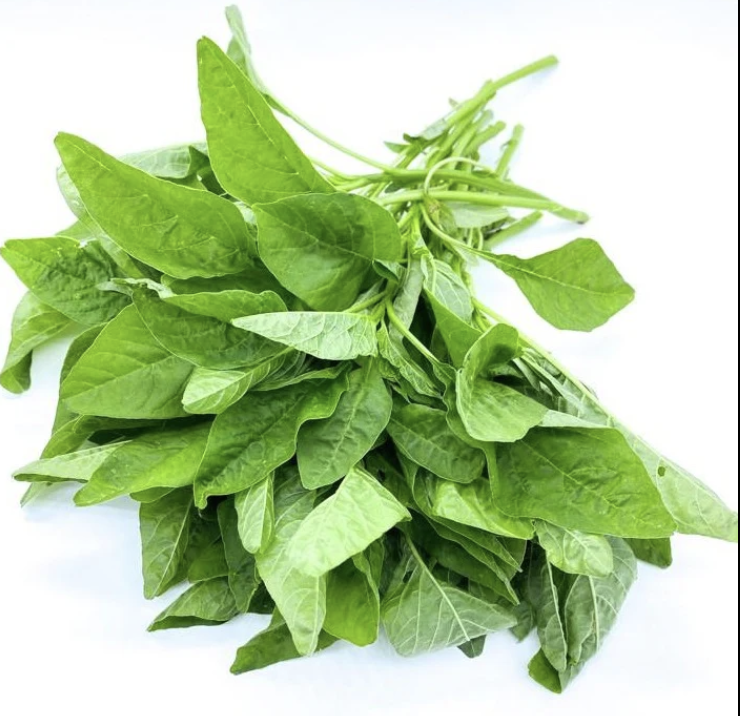
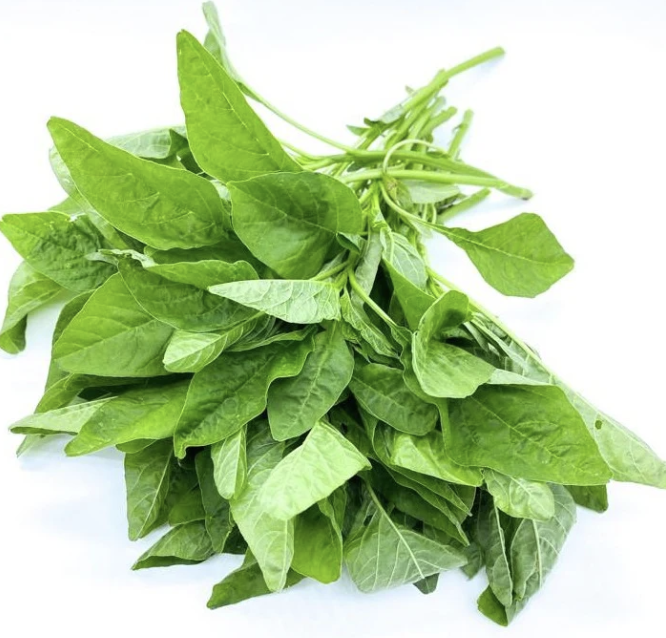
change image format

diff --git a/index.html b/index.html
@@ -6,21 +6,21 @@
 <title>买菜清单 / စာရင်း</title>
 <style>
 *{box-sizing:border-box;margin:0;padding:0}
-body{font-family:-apple-system,BlinkMacSystemFont,"PingFang SC","Noto Sans Myanmar",sans-serif;background:#f0f4f0;min-height:100vh}
-header{background:#2d6a4f;color:white;padding:14px 20px;position:sticky;top:0;z-index:100;display:flex;align-items:center;justify-content:space-between;box-shadow:0 2px 8px rgba(0,0,0,0.2)}
+html,body{height:100%;margin:0}body{font-family:-apple-system,BlinkMacSystemFont,"PingFang SC","Noto Sans Myanmar",sans-serif;background:#f0f4f0;display:flex;flex-direction:column}
+header{background:#2d6a4f;color:white;padding:14px 20px;position:sticky;top:0;z-index:100;flex-shrink:0;display:flex;align-items:center;justify-content:space-between;box-shadow:0 2px 8px rgba(0,0,0,0.2)}
 .htitle{display:flex;flex-direction:column;gap:2px}
 .htitle-zh{font-size:19px;font-weight:700}
 .htitle-my{font-size:14px;opacity:0.8;font-family:"Noto Sans Myanmar","Pyidaungsu",sans-serif}
 .hcount{text-align:right}
 .hcount-zh{font-size:15px;background:rgba(255,255,255,0.22);padding:4px 10px;border-radius:12px;display:block}
 .hcount-my{font-size:12px;opacity:0.75;margin-top:3px;display:block;font-family:"Noto Sans Myanmar","Pyidaungsu",sans-serif;text-align:center}
-.toolbar{display:flex;gap:8px;padding:10px 16px;background:white;border-bottom:1px solid #dde8dd}
+
 .btn{padding:0;border:none;border-radius:10px;cursor:pointer;font-family:inherit;display:flex;flex-direction:column;align-items:center;justify-content:center;gap:1px}
 .btn-zh{font-size:15px;font-weight:600}
 .btn-my{font-size:12px;font-family:"Noto Sans Myanmar","Pyidaungsu",sans-serif;opacity:0.8}
 .btn-copy{background:#2d6a4f;color:white;flex:1;padding:10px 12px}
-.btn-reset{background:#f0f0e8;color:#555;padding:9px 14px}
-.btn-all{background:#e4f0ea;color:#2d6a4f;padding:9px 14px}
+
+
 .grid{display:grid;grid-template-columns:repeat(4,1fr);gap:12px;padding:14px 16px;max-width:900px;margin:0 auto}
 @media(max-width:600px){.grid{grid-template-columns:repeat(2,1fr);gap:10px;padding:10px 12px}}
 .card{background:white;border-radius:14px;overflow:hidden;cursor:pointer;border:2.5px solid transparent;transition:border-color .15s,transform .1s;box-shadow:0 1px 4px rgba(0,0,0,0.07);position:relative;user-select:none;-webkit-tap-highlight-color:transparent}
@@ -42,7 +42,37 @@ header{background:#2d6a4f;color:white;padding:14px 20px;position:sticky;top:0;z-
 .otext{font-size:15px;color:#333;line-height:1.9;white-space:pre-wrap;min-height:36px}.otext-my{font-family:"Noto Sans Myanmar","Pyidaungsu",sans-serif;font-size:12px}
 .empty{color:#ccc;font-style:italic;font-size:13px}
 
-.cat-section{max-width:900px;margin:0 auto;padding:0 16px}
+.cat-nav{position:sticky;top:0;z-index:90;flex-shrink:0;background:white;border-bottom:2px solid #e0ede0;overflow-x:auto;white-space:nowrap;scrollbar-width:none;-webkit-overflow-scrolling:touch}
+.cat-nav::-webkit-scrollbar{display:none}
+.cat-nav-inner{display:inline-flex;gap:4px;padding:0 8px}
+.cat-nav-btn{padding:10px 16px;border:none;background:none;cursor:pointer;font-family:inherit;border-bottom:3px solid transparent;white-space:nowrap;transition:color 0.15s,border-color 0.15s;display:flex;flex-direction:column;align-items:center;gap:2px}
+.cat-nav-btn:hover .cnav-zh{color:#2d6a4f}.cat-nav-btn-zh{font-size:14px;font-weight:700;color:#444}.cat-nav-btn-my{font-size:11px;color:#888;font-family:"Noto Sans Myanmar","Pyidaungsu",sans-serif}.cat-nav-btn:hover{border-bottom-color:#2d6a4f}
+.cat-nav-btn.active .cat-nav-btn-zh{color:#2d6a4f}.cat-nav-btn.active .cat-nav-btn-my{color:#2d6a4f}.cat-nav-btn.active{border-bottom-color:#2d6a4f}
+.main-layout{display:flex;align-items:flex-start;gap:0}
+.left-panel{flex:1;min-width:0;padding-bottom:80px}
+.right-panel{width:320px;flex-shrink:0;position:sticky;top:44px;height:calc(100vh - 44px - 72px);display:flex;flex-direction:column;border-left:1px solid #dde8dd;background:white}
+@media(max-width:768px){
+.main-layout{flex-direction:column}.right-panel{width:100%;position:static;height:auto;border-left:none;border-top:2px solid #dde8dd}}
+.cart-header{padding:14px 16px 10px;border-bottom:1px solid #eee}
+.cart-title-zh{font-size:16px;font-weight:700;color:#1a1a1a}
+.cart-title-my{font-size:12px;color:#5a8a6a;font-family:"Noto Sans Myanmar","Pyidaungsu",sans-serif;display:block;margin-top:2px}
+.cart-body{flex:1;overflow-y:auto;padding:10px 0}
+.cart-empty{color:#ccc;font-style:italic;font-size:14px;text-align:center;padding:30px 16px}
+.cart-cat-header{padding:6px 14px;background:#f0f7f3;border-top:2px solid #2d6a4f;border-bottom:1px solid #d0ead8;display:flex;align-items:center;gap:6px}
+.cart-cat-title{font-size:13px;font-weight:700;color:#2d6a4f}
+.cart-cat-count{font-size:11px;color:#5a8a6a;background:#d0ead8;padding:1px 7px;border-radius:8px}
+.cart-item{display:flex;align-items:center;padding:10px 14px;border-bottom:1px solid #eef5ee;gap:4px}
+.cart-item-num{font-size:13px;font-weight:700;color:#888;min-width:18px;text-align:right}
+.cart-item-info{flex:1;min-width:0;margin-right:4px}
+.cart-item-zh{font-size:15px;font-weight:700;color:#1a1a1a;white-space:nowrap;overflow:hidden;text-overflow:ellipsis}
+.cart-item-my{font-size:12px;color:#5a8a6a;font-family:"Noto Sans Myanmar","Pyidaungsu",sans-serif;white-space:nowrap;overflow:hidden;text-overflow:ellipsis;margin-top:2px}
+.cart-item-qty{font-size:12px;color:#aaa;font-weight:400}
+.cart-item-xqty{display:inline-block;background:#2d6a4f;color:white;font-size:13px;font-weight:700;padding:2px 8px;border-radius:10px;margin-left:6px}
+.cart-item-badge{display:flex;align-items:center;justify-content:center;background:#f0faf4;border:1.5px solid #2d6a4f;border-radius:8px;padding:3px 8px;min-width:32px;flex-shrink:0}
+.cart-item-badge-qty{font-size:18px;font-weight:800;color:#2d6a4f;line-height:1}
+
+.cart-footer{padding:10px 14px;border-top:1px solid #eee}
+.cat-section{max-width:100%;margin:0;padding:0 12px}
 .cat-header{display:flex;align-items:center;gap:10px;padding:14px 4px 8px;cursor:pointer;user-select:none}
 .cat-title-zh{font-size:17px;font-weight:700;color:#1a1a1a}
 .cat-title-my{font-size:13px;color:#5a8a6a;font-family:"Noto Sans Myanmar","Pyidaungsu",sans-serif}
@@ -56,7 +86,6 @@ header{background:#2d6a4f;color:white;padding:14px 20px;position:sticky;top:0;z-
 .cat-grid.hidden{display:none}
 @media(max-width:600px){.cat-grid{grid-template-columns:repeat(2,1fr)}}
 
-.copy-footer{position:sticky;bottom:0;z-index:90;background:white;padding:10px 16px;border-top:1px solid #dde8dd;max-width:100%}
 .btn-copy-footer{width:100%;background:#2d6a4f;color:white;border:none;border-radius:12px;padding:14px;cursor:pointer;font-family:inherit;display:flex;flex-direction:column;align-items:center;gap:2px}
 .btn-copy-footer .btn-zh{font-size:16px;font-weight:700}
 .btn-copy-footer .btn-my{font-size:12px;opacity:0.85;font-family:"Noto Sans Myanmar","Pyidaungsu",sans-serif}
@@ -70,39 +99,45 @@ header{background:#2d6a4f;color:white;padding:14px 20px;position:sticky;top:0;z-
     <span class="htitle-zh">🥬 买菜清单</span>
     <span class="htitle-my">ဟင်းသီးဟင်းရွက် စာရင်း</span>
   </div>
-  <div class="hcount">
-    <span class="hcount-zh" id="hcount-zh">已选 0 样</span>
-    <span class="hcount-my" id="hcount-my">၀ မျိုး ရွေးထား</span>
+  <div style="display:flex;align-items:center;gap:10px">
+    <div class="hcount">
+      <span class="hcount-zh" id="hcount-zh">已选 0 样</span>
+      <span class="hcount-my" id="hcount-my">၀ မျိုး ရွေးထား</span>
+    </div>
+    <button onclick="reset()" style="background:rgba(255,255,255,0.2);border:1.5px solid rgba(255,255,255,0.5);color:white;border-radius:8px;padding:8px 16px;cursor:pointer;font-family:inherit;display:flex;flex-direction:column;align-items:center;gap:2px">
+      <span style="font-size:15px;font-weight:700">清空</span>
+      <span style="font-size:12px;opacity:0.85;font-family:'Noto Sans Myanmar','Pyidaungsu',sans-serif">ဖျက်မည်</span>
+    </button>
   </div>
 </header>
-<div class="toolbar">
-  <button class="btn btn-all" onclick="selAll()">
-    <span class="btn-zh">全选</span>
-    <span class="btn-my">အားလုံးရွေး</span>
-  </button>
-  <button class="btn btn-reset" onclick="reset()">
-    <span class="btn-zh">清除</span>
-    <span class="btn-my">ဖျက်မည်</span>
-  </button>
+
+<div style="flex:1;overflow-y:auto;display:flex;flex-direction:column" id="scroll-container"><div class="cat-nav" id="cat-nav">
+  <div class="cat-nav-inner" id="cat-nav-inner"></div>
+</div>
+<div class="main-layout">
+  <div class="left-panel">
+    <div id="categories"></div>
+  </div>
+  <div class="right-panel">
+    <div class="cart-header">
+      <span class="cart-title-zh">🛒 已选购物车</span>
+      <span class="cart-title-my">ရွေးထားသောစာရင်း</span>
+    </div>
+    <div class="cart-body" id="cart-body">
+      <div class="cart-empty" id="cart-empty">未选任何菜品<br><small>မရွေးရသေးပါ</small></div>
+    </div>
+    <div class="cart-footer">
+      <button class="btn-copy-footer" onclick="copy()">
+        <span class="btn-zh">📋 复制给供货商</span>
+        <span class="btn-my">စာရင်းကူးယူမည်</span>
+      </button>
+    </div>
+  </div>
+</div>
 
 </div>
-<div id="categories"></div>
-<div class="output-wrap">
-  <div class="output output-zh">
-    <span class="olabel olabel-zh">已选清单 — 发给 Vendor</span>
-    <div class="otext" id="otext-zh"><span class="empty">未选任何菜品</span></div>
-  </div>
-  <div class="output output-my">
-    <span class="olabel olabel-my">ရွေးထားသောစာရင်း — စစ်ဆေးရန်</span>
-    <div class="otext otext-my" id="otext-my"><span class="empty">မရွေးရသေးပါ</span></div>
-  </div>
 </div>
-<div class="copy-footer">
-  <button class="btn-copy-footer" onclick="copy()">
-    <span class="btn-zh">📋 复制给供货商</span>
-    <span class="btn-my">စာရင်းကူးယူမည်</span>
-  </button>
-</div>
+
 <div class="toast" id="toast">
   ✅ 已复制！可直接发给 Vendor<br>
   <span class="toast-my">ကူးယူပြီးပါပြီ</span>
@@ -323,11 +358,34 @@ function showToast(){
 }
 
 function renderCategories(){
+  // build nav
+  const navInner=document.getElementById('cat-nav-inner');
+  if(navInner){
+    navInner.innerHTML='';
+    categories.forEach(function(cat,ci){
+      const btn=document.createElement('button');
+      btn.className='cat-nav-btn';
+      btn.innerHTML='<span class="cat-nav-btn-zh">'+cat.zh+'</span><span class="cat-nav-btn-my">'+cat.my+'</span>';
+      btn.onclick=function(){
+        const sec=document.getElementById('cat-sec-'+ci);
+        if(sec){sec.scrollIntoView({behavior:'smooth',block:'start'});}
+        // expand if collapsed
+        const grid=document.getElementById('cat-grid-'+ci);
+        const hdr=sec.querySelector('.cat-header');
+        if(grid&&grid.classList.contains('hidden')){
+          grid.classList.remove('hidden');
+          if(hdr) hdr.classList.remove('collapsed');
+        }
+      };
+      navInner.appendChild(btn);
+    });
+  }
   const container=document.getElementById('categories');
   container.innerHTML='';
   categories.forEach((cat,ci)=>{
     const sec=document.createElement('div');
     sec.className='cat-section';
+    sec.id='cat-sec-'+ci;
     const hdr=document.createElement('div');
     hdr.className='cat-header';
     hdr.innerHTML='<span class="cat-title-zh">'+cat.zh+'</span><span class="cat-title-my">'+cat.my+'</span><span class="cat-count" id="cat-count-'+ci+'"></span><span class="cat-toggle">&#9662;</span>';
@@ -385,7 +443,7 @@ function updateCatCounts(){
   categories.forEach(function(cat,ci){
     const n=cat.indices.filter(function(i){return sel.has(i);}).length;
     const el=document.getElementById('cat-count-'+ci);
-    if(el) el.textContent=n>0?n+' 已选':'';
+    if(el){el.textContent=n>0?n+' ✓':'';el.style.display=n>0?'block':'none';}
   });
 }
 
@@ -444,23 +502,53 @@ function refreshCardQty(i){
 
 function update(){
   const n=sel.size;
-  document.getElementById('hcount-zh').textContent='\u5df2\u9009 '+n+' \u6837';
-  document.getElementById('hcount-my').textContent=n+' မျိုး ရွေးထား';
-  const ozh=document.getElementById('otext-zh');
-  const omy=document.getElementById('otext-my');
+  const hzh=document.getElementById('hcount-zh');
+  const hmy=document.getElementById('hcount-my');
+  if(hzh) hzh.textContent='已选 '+n+' 样';
+  if(hmy) hmy.textContent=n+' မျိုး ရွေးထား';
+  const body=document.getElementById('cart-body');
+  const empty=document.getElementById('cart-empty');
+  // clear existing
+  body.querySelectorAll('.cart-item,.cart-cat-header').forEach(el=>el.remove());
   if(!n){
-    ozh.innerHTML='<span class="empty">\u672a\u9009\u4efb\u4f55\u83dc\u54c1</span>';
-    omy.innerHTML='<span class="empty">\u1019\u101b\u103d\u1031\u1038\u101b\u101e\u1031\u1038\u1015\u102b</span>';
+    if(empty) empty.style.display='block';
     return;
   }
-  const sorted=[...sel.entries()].sort((a,b)=>a[1].order-b[1].order);
-  const linesZh=sorted.map(([i,e])=>e.order+'. '+items[i].zh+' '+items[i].qty+(e.qty>1?' x'+e.qty:''));
-  const linesMy=sorted.map(([i,e])=>e.order+'. '+items[i].my+' '+items[i].qty+(e.qty>1?' x'+e.qty:''));
-  ozh.textContent=linesZh.join('\n');
-  omy.textContent=linesMy.join('\n');
+  if(empty) empty.style.display='none';
+  let globalOrder=0;
+  categories.forEach(function(cat){
+    const catItems=cat.indices.filter(function(i){return sel.has(i);});
+    if(!catItems.length) return;
+    // category header
+    const hdr=document.createElement('div');
+    hdr.className='cart-cat-header';
+    hdr.innerHTML='<div style="flex:1">'+'<span class="cart-cat-title">'+cat.zh+'</span>'+'<div style="font-size:11px;color:#5a8a6a;font-family:\"Noto Sans Myanmar\",sans-serif;margin-top:1px">'+cat.my+'</div>'+'</div>'+'<div style="text-align:center"><span class="cart-cat-count">'+catItems.length+'样</span><div style="font-size:10px;color:#5a8a6a;font-family:\"Noto Sans Myanmar\",sans-serif">'+catItems.length+'မျိုး</div></div>';
+    body.appendChild(hdr);
+    // items sorted by selection order
+    catItems.sort(function(a,b){return sel.get(a).order-sel.get(b).order;});
+    catItems.forEach(function(i){
+      globalOrder++;
+      const e=sel.get(i);
+      const row=document.createElement('div');
+      row.className='cart-item';
+      row.innerHTML='<span class="cart-item-num">'+globalOrder+'.</span>'
+        +'<div class="cart-item-info">'
+          +'<div class="cart-item-zh">'+items[i].zh+'</div>'
+          +'<div class="cart-item-zh" style="font-size:12px;font-weight:400;color:#999">'+items[i].qty+'</div>'
+          +'<div class="cart-item-my">'+items[i].my+'</div>'
+        +'</div>'
+        +'<div class="cart-item-badge">'
+          +'<span class="cart-item-badge-qty">'+e.qty+'</span>'
+        +'</div>';
+      body.appendChild(row);
+    });
+  });
 }
 
-function reset(){sel.clear();counter=0;renderCategories();}
+function reset(){sel.clear();counter=0;renderCategories();
+
+// dynamically set sticky positions based on actual header height
+}
 function selAll(){items.forEach(function(_,i){if(!sel.has(i)){counter++;sel.set(i,{order:counter,qty:1});}});renderCategories();}
 renderCategories();
 </script>